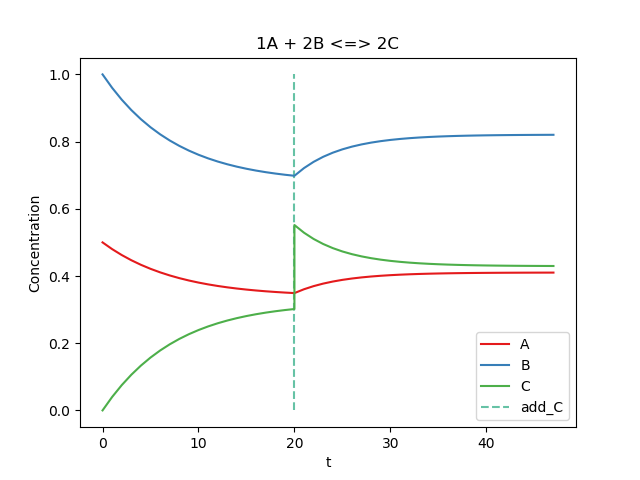
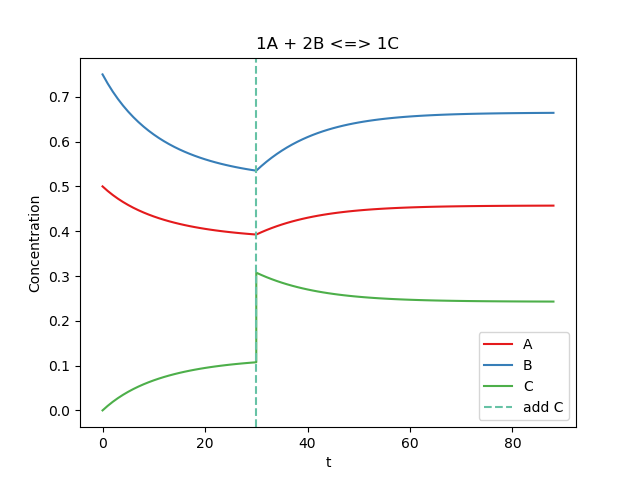
refactoring

diff --git a/equilibrium/equilibrium.py b/equilibrium/equilibrium.py
@@ -9,8 +9,7 @@ prod = lambda x: reduce(mul, x, 1)
 
 class ETYPE(enum.Enum):
     update_conc = 0  # assumes value = (name_of_element, change_in_conc)
-    update_kf = 1  # assumes value = change in kf
-    update_kr = 2  # assumes value = change in kr
+    update_K = 1  # assumes value = lambda from K to new_K
 
 
 class Event:
@@ -18,37 +17,43 @@ class Event:
         self.event_type = event_type
         self.time = time
         self.value = value
-        self.name = name
+        if name == "":
+            self.name = f"{event_type}, t={time}, {value}"
+        else:
+            self.name = name
+        self.completed = False
 
 
 class Reaction:
-    def __init__(self, kf=1, kr=1):
-        self.reactants = []
-        self.products = []
-        self.events = []
+    def __init__(self, K=1, reactants=[], products=[], events=[]):
         self.min_end_time = 0
-        self.dt = 0.05
+        self.dt = 0.03
         self.t = 0
-        self.kf = kf  # forward reaction rate constnat
-        self.kr = kr  # reverse reaction rate constant
+
+        self.K = K
+        assert K != 0, "K cannot be 0"
+
+        self.reactants = reactants
+        self.products = products
+
+        self.events = []
+        for event in events:
+            self.events.append(event)
+            self.min_end_time = max(self.min_end_time, event.time)
+
         self.times = [0]  # x-values for plotting
-        self.Qhistory = [self.reaction_quotient()]
-        self.Khistory = [self.K()]
+        self.Qhistory = [self.reaction_quotient(*self.rates())]
+        self.Khistory = [self.K]
 
     def rates(self):
         # calculates forward and backwards rates
-        forward = prod(map(lambda x: x.conc ** x.coeff, self.reactants)) * self.kf
-        backward = prod(map(lambda x: x.conc ** x.coeff, self.products)) * self.kr
+        # kf = K, kr = 1, so kf/kr = K
+        forward = prod(map(lambda x: x.conc ** x.coeff, self.reactants)) * self.K
+        backward = prod(map(lambda x: x.conc ** x.coeff, self.products))
         return forward, backward
 
-    def react(self):
+    def react(self, forward, backward):
         # simulates a single reaction and updates state
-        if self.t == 0:
-            self.Qhistory = [self.reaction_quotient()]
-
-        self.do_events()
-
-        forward, backward = self.rates()
         for r in self.reactants:
             r.conc -= self.dt * r.coeff * (forward - backward)
         for p in self.products:
@@ -56,10 +61,10 @@ class Reaction:
 
         self.t += 1
         self.times.append(self.t)
-        self.Qhistory.append(self.reaction_quotient())
-        self.Khistory.append(self.K())
+        self.Qhistory.append(self.reaction_quotient(forward, backward))
+        self.Khistory.append(self.K)
 
-    def react_until_eq(self, threshold=0.005):
+    def react_until_eq(self, threshold=0.001):
         # reacts until the net change in concentrations is less than threshold
         # will not stop reacting until all events have occurred
         while True:
@@ -67,20 +72,16 @@ class Reaction:
             if abs(forward - backward) < threshold and self.t > self.min_end_time:
                 break
             else:
-                self.react()
+                self.do_events()
+                self.react(*self.rates())
 
-    def reaction_quotient(self):
+    def reaction_quotient(self, forward, backward):
         # calculates Q, the reaction quotient
-        forward, backward = self.rates()
-        numer = backward / self.kr
-        denom = forward / self.kf
+        numer = backward
+        denom = forward / self.K
         if denom == 0:  # prevent divide-by-zero errors
             denom += 1e-6
         return numer / denom
-
-    def K(self):
-        # calculates the equilibrium constant K(c)
-        return self.kf / self.kr
 
     def print_state(self):
         # for debugging
@@ -92,37 +93,14 @@ class Reaction:
         for p in self.products:
             print("\t\t" + str(p))
 
-    def add_reactant(self, r):
-        self.reactants.append(r)
-
-    def add_reactants(self, r_list):
-        for r in r_list:
-            self.reactants.append(r)
-
-    def add_product(self, p):
-        self.products.append(p)
-
-    def add_products(self, p_list):
-        for p in p_list:
-            self.products.append(p)
-
-    def add_event(self, event):
-        self.events.append(event)
-        # ensure reaction does not end until all events occur
-        self.min_end_time = max(self.min_end_time, event.time)
-
-    def add_events(self, event_list):
-        for event in event_list:
-            self.add_event(event)
-
     def do_events(self):
         i = 0
         # activates any events that should occur at this timestep
         while i < len(self.events):
             e = self.events[i]
-            if e.time == self.t:
+            if e.time == self.t and not e.completed:
                 self.do_event(e)
-                self.events.pop(i)
+                e.completed = True
             else:
                 i += 1
 
@@ -137,14 +115,11 @@ class Reaction:
                     # to keep all concentration histories in sync
                     x.conc = x.conc
             self.times.append(self.t)
-            self.Qhistory.append(self.reaction_quotient())
-            self.Khistory.append(self.K())
-        elif t == ETYPE.update_kf:
+            self.Qhistory.append(self.reaction_quotient(*self.rates()))
+            self.Khistory.append(self.K)
+        elif t == ETYPE.update_K:
             val = event.value
-            self.kf += val
-        elif t == ETYPE.update_kr:
-            val = event.value
-            self.kr += val
+            self.K = val(self.K)
         else:
             print(f"Event at {event.time} not found")
 
@@ -163,6 +138,53 @@ class Reaction:
             if i < len(self.products) - 1:
                 strs.append(" + ")
         return "".join(strs)
+
+    def plot(
+        self,
+        show_events=False,
+        show_legend=True,
+        show_reaction=False,
+        show_title=True,
+        plot_name="plot.png",
+    ):
+        elements = self.reactants + self.products
+        line_colors = sns.color_palette("Set1", len(elements) + 2)
+        for i, e in enumerate(elements):
+            plt.plot(self.times, e.history, color=line_colors[i], label=e.name)
+
+        if show_reaction:
+            plt.plot(
+                self.times,
+                self.Qhistory,
+                color=line_colors[-2],
+                label="Q",
+                linestyle="dashed",
+            )
+            plt.plot(
+                self.times,
+                self.Khistory,
+                color=line_colors[-1],
+                label="K",
+                linestyle="dashed",
+            )
+
+        if show_events:
+            event_colors = sns.color_palette("Set2", len(self.events))
+            for i, e in enumerate(self.events):
+                plt.axvline(
+                    e.time, color=event_colors[i], label=e.name, linestyle="dashed"
+                )
+
+        if show_legend:
+            plt.legend()
+
+        if show_title:
+            plt.title(self.equation())
+
+        plt.xlabel("t")
+        plt.ylabel("Concentration")
+
+        plt.savefig(plot_name)
 
 
 class Element:
@@ -184,44 +206,3 @@ class Element:
         # custom setter to keep track of history
         self.history.append(newconc)
         self._conc = newconc
-
-
-def plot(
-    elements,
-    reaction,
-    events=[],
-    show_events=False,
-    show_legend=True,
-    show_reaction=False,
-    show_title=True,
-):
-    R = reaction
-    line_colors = sns.color_palette("Set1", len(elements) + 2)
-    for i, e in enumerate(elements):
-        plt.plot(R.times, e.history, color=line_colors[i], label=e.name)
-
-    if show_reaction:
-        plt.plot(
-            R.times, R.Qhistory, color=line_colors[-2], label="Q", linestyle="dashed"
-        )
-        plt.plot(
-            R.times, R.Khistory, color=line_colors[-1], label="K", linestyle="dashed"
-        )
-
-    if show_events:
-        event_colors = sns.color_palette("Set2", len(events))
-        for i, e in enumerate(events):
-            plt.vlines(
-                e.time, 0, 1, color=event_colors[i], label=e.name, linestyle="dashed"
-            )
-
-    if show_legend:
-        plt.legend()
-
-    if show_title:
-        plt.title(R.equation())
-
-    plt.xlabel("t")
-    plt.ylabel("Concentration")
-
-    plt.savefig("plot.png")

diff --git a/main.py b/main.py
@@ -1,23 +1,14 @@
 import equilibrium as eq
 
 # Reaction config
-R = eq.Reaction(kf=0.8, kr=1.2)
-
 A = eq.Element(name="A", coeff=1, init_conc=0.5)
-B = eq.Element(name="B", coeff=2, init_conc=1)
-R.add_reactants([A, B])
-
-C = eq.Element(name="C", coeff=2, init_conc=0)
-R.add_product(C)
-
-x = eq.Event(eq.ETYPE.update_conc, 20, ("C", 0.25), name="add_C")
-R.add_event(x)
+B = eq.Element(name="B", coeff=2, init_conc=0.75)
+C = eq.Element(name="C", coeff=1, init_conc=0)
+X = eq.Event(eq.ETYPE.update_conc, 30, ("C", 0.2), name="add C")
 
 # run experiment
+R = eq.Reaction(K=1.2, reactants=[A, B], products=[C], events=[X])
 R.react_until_eq(threshold=0.001)
 
 # plotting
-elements = [A, B, C]
-eq.plot(elements, R, [x], show_events=True)
-
-# plt.show()
+R.plot(show_events=True)

diff --git a/equilibrium/__init__.py b/equilibrium/__init__.py
@@ -1,1 +1,1 @@
-from equilibrium.equilibrium import Reaction, Element, Reaction, Event, ETYPE, plot
+from equilibrium.equilibrium import Reaction, Element, Reaction, Event, ETYPE

diff --git a/README.md b/README.md
@@ -1,15 +1,13 @@
 # Equilibrium
-
 Simulate chemical equilibrium and generate plots! A working example is located in `main.py`.
 
 ## Steps to Use
-1. Initialize a `Reaction` with values for `kf` and `kr`
-2. Initialize `Element` objects with a coefficient and initial concentration.
-Add these to the `Reaction` using the `add_reactant` and `add_product` methods.
-3. Initialize `Event` objects if you wish to change an element's concentration, `kf`, or `kr` during the reaction.
-Add these to the `Reaction` using `add_event`.
+1. Initialize `Element` objects with a coefficient and initial concentration.
+These represent products/reactants during the simulation.
+2. Initialize `Event` objects if you wish to change an element's concentration or `K` during the simulation.
+3. Initialize a `Reaction` by specifying `K`, the reactants, the products, and the events to take into account during the sim.
 4. Run the simulation using the `react_until_eq` method.
-5. Plot the reaction using the plot function, which requires the product/reactants, the reaction, and the events.
+5. Plot the reaction using the `plot` method.
 
 ## Example Plot (main.py)
 ![Plot](plot.png)
